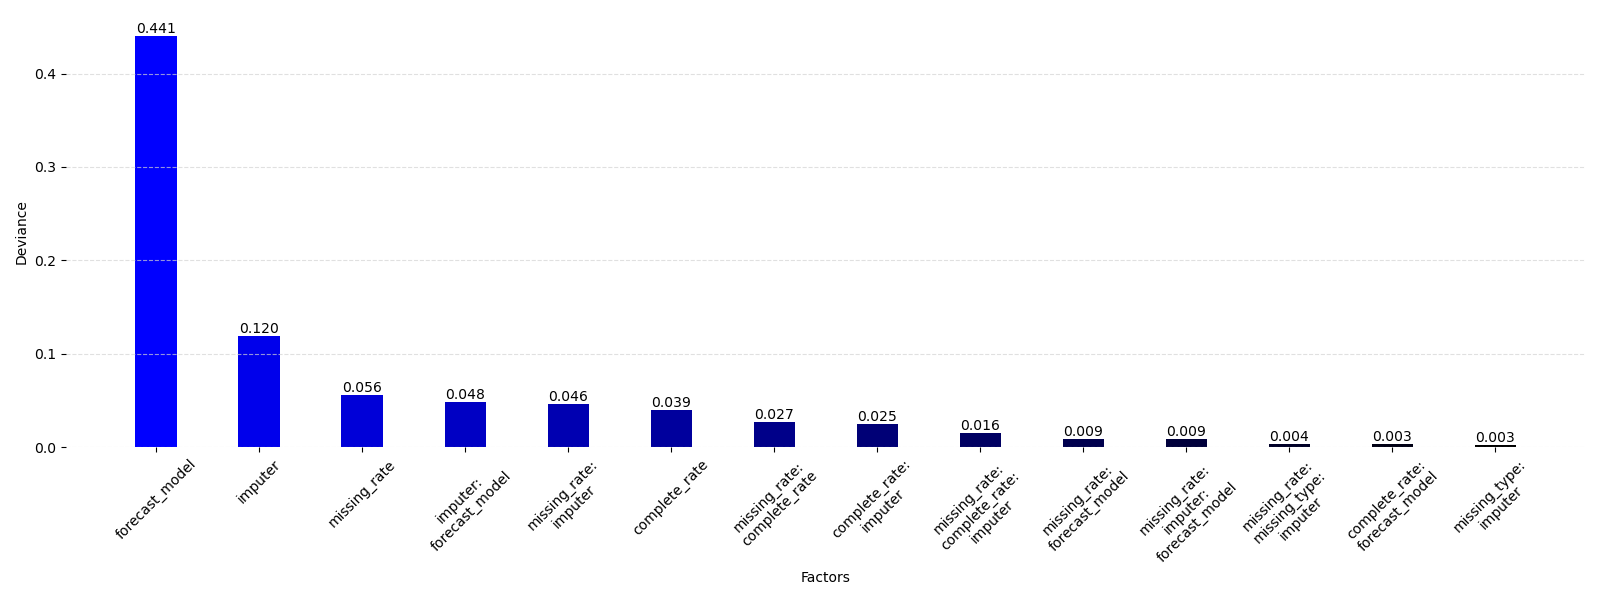
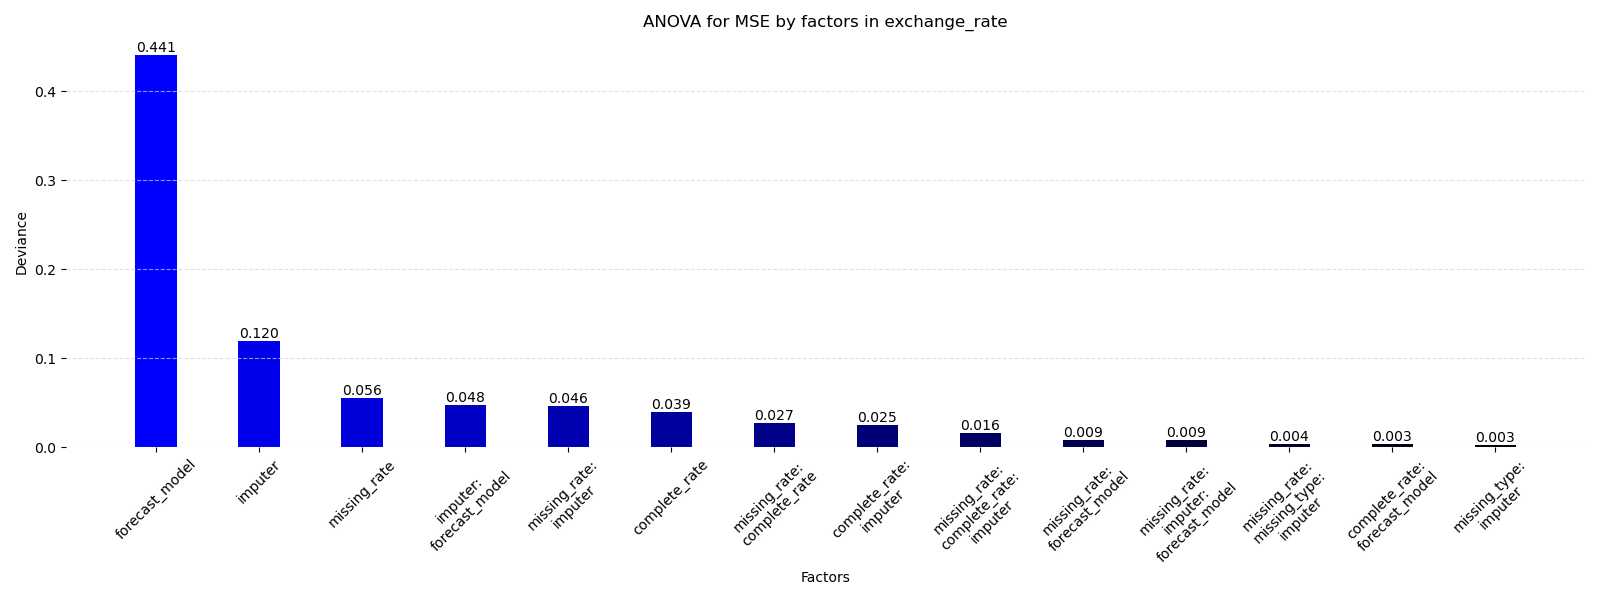
commit

diff --git a/analysis/visualization.py b/analysis/visualization.py
@@ -4,8 +4,12 @@ import seaborn as sns
 import matplotlib
 matplotlib.use('Agg')
 from matplotlib.lines import Line2D
+import os
 
 save_path = 'visualization/'
+os.makedirs(save_path, exist_ok=True)
+os.makedirs(save_path + 'by_forecast_model/', exist_ok=True)
+os.makedirs(save_path + 'by_imputer/', exist_ok=True)
 
 if __name__ == '__main__':
     results = pd.read_csv('results.csv')
@@ -36,8 +40,6 @@ if __name__ == '__main__':
                 
             # 获取图例句柄和标签
             handles, labels = g.axes[0, 0].get_legend_handles_labels()
-            
-            labels[labels.index('forecast_model')] = 'forecast_model'
             labels[labels.index('std')] ='standard_deviation'
             
             # 找到标准差图例的起始和结束索引
@@ -92,5 +94,66 @@ if __name__ == '__main__':
             plt.subplots_adjust(top=0.83)
 
             # 显示图形
-            plt.savefig(f'{save_path}{dataset}_{forecast_metric}_vs_forecast_model.png')
+            plt.savefig(f'{save_path}by_forecast_model/{dataset}_{forecast_metric}_vs_forecast_model.png')
+            plt.close()  # 关闭当前图形，避免内存泄漏
+    
+    
+    for dataset in results['dataset'].unique():
+        for forecast_metric in ['forecast_mse', 'forecast_mae']:
+            result = results[results['dataset'] == dataset]
+            
+            # 计算每个数据集、imputer 和 missing_rate 组合下的 forecast_metric_value 均值和标准差
+            grouped_data = result.groupby(['imputer','missing_rate'])[forecast_metric].agg(['mean','std']).reset_index()
+            
+            # 设置图片清晰度
+            plt.rcParams['figure.dpi'] = 300
+            
+            # 创建画布，设置 margin_titles 为 True，避免图例被覆盖，同时调整宽高比
+            g = sns.FacetGrid(grouped_data, margin_titles=True, height=5, aspect=1.7)
+            
+            # 在每个子图上绘制散点图，点的大小与标准差成正比
+            g.map_dataframe(sns.scatterplot, x='missing_rate', y='mean', size='std', hue='imputer', palette='bright', sizes=(20, 200))
+            
+            # 添加浅色网格线
+            for ax in g.axes.flat:
+                ax.grid(True, color='lightgray', linestyle='--', alpha=0.7)
+                
+            # 获取图例句柄和标签
+            handles, labels = g.axes[0, 0].get_legend_handles_labels()
+            labels[labels.index('std')] ='standard_deviation'
+            
+            # 找到标准差图例的起始和结束索引
+            std_start_idx = labels.index('standard_deviation')
+            std_end_idx = next((i for i, label in enumerate(labels[std_start_idx:], start=std_start_idx) if label == labels[0]), len(labels))
+            
+            # 筛选出 3 个不同大小的标准差图例
+            std_handles = handles[std_start_idx:std_end_idx]
+            std_labels = labels[std_start_idx:std_end_idx]
+            num_std_legend = 3
+            step = len(std_handles) // num_std_legend if len(std_handles) > num_std_legend - 1 else 1
+            selected_std_handles = [std_handles[0]] + [std_handles[i * step] for i in range(1, num_std_legend)] + [std_handles[-1]]
+            selected_std_labels = [std_labels[0]] + [std_labels[i * step] for i in range(1, num_std_legend)] + [std_labels[-1]]
+            
+            # 移除原有的标准差图例
+            handles = handles[:std_start_idx] + handles[std_end_idx:]
+            labels = labels[:std_start_idx] + labels[std_end_idx:]
+            
+            # 添加筛选后的标准差图例
+            handles = handles[:std_start_idx] + selected_std_handles + handles[std_start_idx + 1:]
+            labels = labels[:std_start_idx] + selected_std_labels + labels[std_start_idx + 1:]
+
+            # 手动添加图例，调整位置和布局
+            # 减少列数以避免图例过于拥挤
+            plt.legend(handles, labels, loc='upper center', bbox_to_anchor=(0.45, 1.1), ncol=len(handles), frameon=False, fontsize='x-small', columnspacing=0.5)
+
+            # 设置轴标签
+            g.set_axis_labels('missing_rate', forecast_metric)
+
+            g.figure.suptitle(f'{forecast_metric} vs imputer in {dataset}', y=0.95)
+
+            # 调整子图布局，为标题和图例腾出更多空间
+            plt.subplots_adjust(top=0.83)
+
+            # 显示图形
+            plt.savefig(f'{save_path}by_imputer/{dataset}_{forecast_metric}_vs_imputer.png')
             plt.close()  # 关闭当前图形，避免内存泄漏

diff --git a/analysis/corr_analysis.py b/analysis/corr_analysis.py
@@ -1,0 +1,65 @@
+import pandas as pd
+import matplotlib.pyplot as plt
+import matplotlib
+matplotlib.use('Agg')
+import seaborn as sns
+from scipy.stats import pearsonr
+import os
+
+save_path = './visualization/corr_analysis/'
+
+def calculate_pearson_corr(data):
+    impute_metrics = ['impute_rmse', 'impute_mae', 'impute_r2', 'impute_kl_divergence', 'impute_ks_statistic', 'impute_w2_distance', 'impute_sliced_kl_divergence', 'impute_sliced_ks_statistic', 'impute_sliced_w2_distance']
+    forecast_metrics = ['forecast_mse', 'forecast_mae']
+    corr_matrix = pd.DataFrame(index=impute_metrics, columns=forecast_metrics)
+
+    for impute_metric in impute_metrics:
+        for forecast_metric in forecast_metrics:
+            corr, p_value = pearsonr(data[impute_metric], data[forecast_metric])
+            corr_matrix.loc[impute_metric, forecast_metric] = corr
+
+    return corr_matrix
+
+# 新增函数：绘制相关系数热力图
+def plot_corr_heatmap(corr_matrix, title):
+    plt.figure(figsize=(10, 8))
+    sns.heatmap(corr_matrix.astype(float), annot=True, cmap='coolwarm', vmin=-1, vmax=1)
+    plt.title(title)
+    plt.tight_layout()
+    plt.savefig(f'{save_path}{title.replace(" ", "_")}_corr_heatmap.png')
+    plt.close()
+    
+if __name__ == '__main__':
+    
+    os.makedirs(save_path, exist_ok=True)
+    results = pd.read_csv('./results.csv')
+    results = results[results['missing_rate'] != 0]
+
+    # 对每个数据集进行分析
+    datasets = ["exchange_rate", "illness"]
+    for dataset in datasets:
+        result = results[results["dataset"] == dataset]
+
+        # 计算相关系数
+        corr_matrix = calculate_pearson_corr(result)
+        # 绘制相关系数热力图
+        plot_corr_heatmap(corr_matrix, f'Pearson Correlation between Imputation and Forecast Metrics in {dataset}')
+    
+    
+    
+    impute_metrics = ['impute_rmse', 'impute_mae', 'impute_r2', 'impute_kl_divergence', 'impute_ks_statistic', 'impute_w2_distance', 'impute_sliced_kl_divergence', 'impute_sliced_ks_statistic', 'impute_sliced_w2_distance']
+    
+    corr_matrix = pd.DataFrame(index=impute_metrics, columns=impute_metrics)
+
+    for impute_metric1 in impute_metrics:
+        for impute_metric2 in impute_metrics:
+            corr, p_value = pearsonr(results[impute_metric1], results[impute_metric2])
+            corr_matrix.loc[impute_metric1, impute_metric2] = corr
+    
+    plt.figure(figsize=(10, 8))
+    sns.heatmap(corr_matrix.astype(float), annot=True, cmap='coolwarm', vmin=-1, vmax=1)
+    plt.title('Pearson Correlation between Imputation Metrics')
+    plt.xticks(rotation=45, ha='right')
+    plt.tight_layout()
+    plt.savefig(f'{save_path}imputation_metrics_corr_heatmap.png')
+    plt.close()

diff --git a/analysis/ANOVA.py b/analysis/ANOVA.py
@@ -4,8 +4,6 @@ from statsmodels.formula.api import ols
 import matplotlib.pyplot as plt
 import matplotlib
 matplotlib.use('Agg')
-import seaborn as sns
-from scipy.stats import pearsonr
 import os
 import re
 
@@ -60,35 +58,13 @@ def plot_explained_deviation(partial_etas, title):
         height = bar.get_height()
         plt.text(bar.get_x() + bar.get_width() / 2, height, f'{height:.3f}', 
                  ha='center', va='bottom', color='black', fontsize=10)
+    
+    plt.title(title)
 
     # 调整 x 轴标签位置，使其尾部对准柱体右侧
     plt.xticks(rotation=45, ha='center')
     plt.tight_layout()
     plt.savefig(f'{save_path}{title.replace(" ", "_")}.png')
-    plt.close()
-
-# 新增函数：计算皮尔逊相关系数
-def calculate_pearson_corr(data):
-    impute_metrics = ['impute_rmse', 'impute_mae', 'impute_r2', 'impute_kl_divergence', 'impute_ks_statistic', 'impute_w2_distance', 'impute_sliced_kl_divergence', 'impute_sliced_ks_statistic', 'impute_sliced_w2_distance']
-    forecast_metrics = ['forecast_mse', 'forecast_mae']
-    corr_matrix = pd.DataFrame(index=impute_metrics, columns=forecast_metrics)
-    p_value_matrix = pd.DataFrame(index=impute_metrics, columns=forecast_metrics)
-
-    for impute_metric in impute_metrics:
-        for forecast_metric in forecast_metrics:
-            corr, p_value = pearsonr(data[impute_metric], data[forecast_metric])
-            corr_matrix.loc[impute_metric, forecast_metric] = corr
-            p_value_matrix.loc[impute_metric, forecast_metric] = p_value
-
-    return corr_matrix, p_value_matrix
-
-# 新增函数：绘制相关系数热力图
-def plot_corr_heatmap(corr_matrix, title):
-    plt.figure(figsize=(10, 8))
-    sns.heatmap(corr_matrix.astype(float), annot=True, cmap='coolwarm', vmin=-1, vmax=1)
-    plt.title(title)
-    plt.tight_layout()
-    plt.savefig(f'{save_path}{title.replace(" ", "_")}_corr_heatmap.png')
     plt.close()
 
 if __name__ == '__main__':
@@ -101,11 +77,6 @@ if __name__ == '__main__':
     datasets = ["exchange_rate", "illness"]
     for dataset in datasets:
         result = results[results["dataset"] == dataset]
-
-        # 计算相关系数
-        corr_matrix, p_value_matrix = calculate_pearson_corr(result)
-        # 绘制相关系数热力图
-        plot_corr_heatmap(corr_matrix, f'Pearson Correlation between Imputation and Forecast Metrics in {dataset}')
 
         model = ols('forecast_mse ~ missing_rate * C(missing_type) * complete_rate * C(imputer) * C(forecast_model)', data=result).fit()
         anova_table = sm.stats.anova_lm(model, typ=2)
